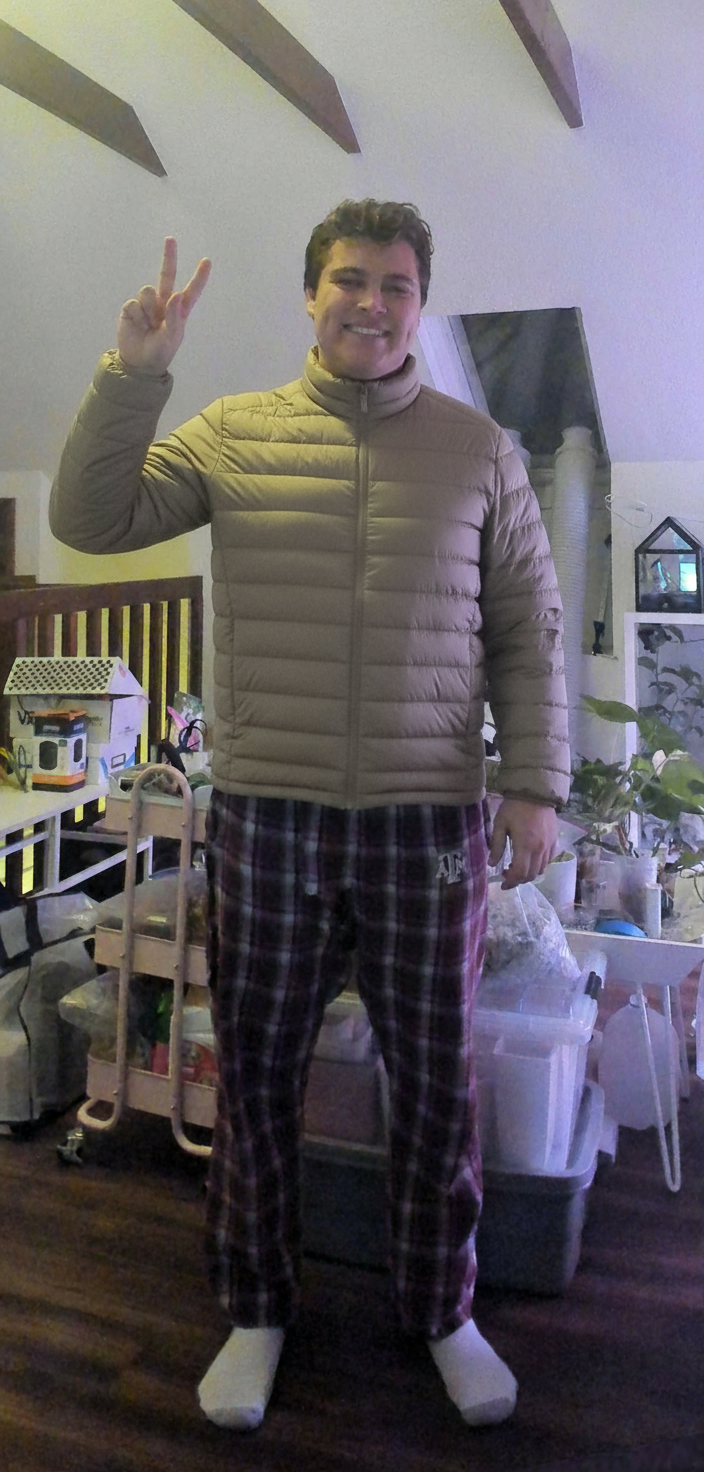
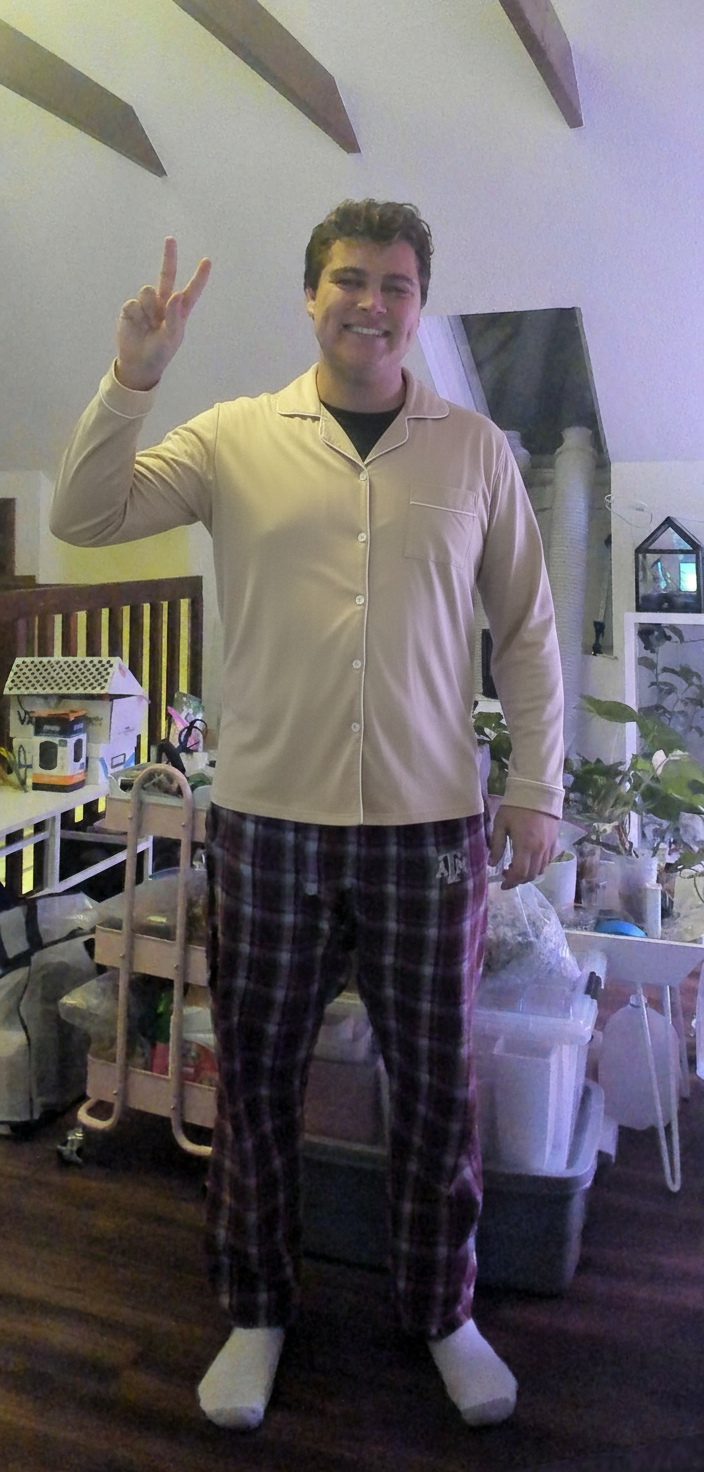
Use naive mask to help complex mask

Changed region(s): [[0.0625, 0.2188, 0.8125, 0.5625]]

diff --git a/danny-mirror/try-on-clothes/isolate-clothing/basic/output/refine_exact_mask_from_seed.py b/danny-mirror/try-on-clothes/isolate-clothing/basic/output/refine_exact_mask_from_seed.py
@@ -1,0 +1,152 @@
+import os
+import cv2
+import numpy as np
+
+
+def load_images_and_seed():
+    script_dir = os.path.dirname(os.path.abspath(__file__))
+    tryon_clothes_root = os.path.abspath(os.path.join(script_dir, os.pardir, os.pardir, os.pardir))  # .../try-on-clothes
+    me_path = os.path.join(tryon_clothes_root, "me.png")
+    tryon_path = os.path.join(tryon_clothes_root, "isolate-clothing", "scaler", "output", "tryon_result_scaled.png")
+    seed_path = os.path.join(script_dir, "clothes_mask.png")
+
+    me = cv2.imread(me_path, cv2.IMREAD_COLOR)
+    if me is None:
+        raise FileNotFoundError(f"Could not read: {me_path}")
+    tr = cv2.imread(tryon_path, cv2.IMREAD_COLOR)
+    if tr is None:
+        raise FileNotFoundError(f"Could not read: {tryon_path}")
+    seed = cv2.imread(seed_path, cv2.IMREAD_GRAYSCALE)
+    if seed is None:
+        raise FileNotFoundError(f"Could not read seed mask: {seed_path}")
+    if me.shape[:2] != tr.shape[:2]:
+        raise ValueError(f"Size mismatch me={me.shape[:2]} tryon={tr.shape[:2]}")
+    if seed.shape[:2] != tr.shape[:2]:
+        # Allow small mismatches by resizing seed to image size if necessary
+        seed = cv2.resize(seed, (tr.shape[1], tr.shape[0]), interpolation=cv2.INTER_NEAREST)
+    return me, tr, seed, script_dir
+
+
+def lab_delta(a_bgr: np.ndarray, b_bgr: np.ndarray) -> np.ndarray:
+    a = cv2.cvtColor(a_bgr, cv2.COLOR_BGR2LAB).astype(np.float32)
+    b = cv2.cvtColor(b_bgr, cv2.COLOR_BGR2LAB).astype(np.float32)
+    d = a - b
+    return np.sqrt(np.sum(d * d, axis=2))
+
+
+def build_grabcut_mask(seed_mask: np.ndarray, delta: np.ndarray,
+                       sure_bg_thr: float = 6.0,
+                       prob_bg_thr: float = 12.0) -> np.ndarray:
+    """
+    Build a trimap for GrabCut from a seed mask and Lab delta between try-on and original.
+      - sure FG: eroded seed
+      - prob FG: seed
+      - prob BG: pixels with low delta (< prob_bg_thr) outside seed
+      - sure BG: pixels with very low delta (< sure_bg_thr) outside seed + a small border band
+    Returns a mask with values in {GC_BGD(0), GC_FGD(1), GC_PR_BGD(2), GC_PR_FGD(3)}
+    """
+    h, w = seed_mask.shape[:2]
+    seed_bin = (seed_mask > 0).astype(np.uint8) * 255
+
+    # sure FG = eroded seed (shrink to high-confidence interior)
+    k_erode = cv2.getStructuringElement(cv2.MORPH_ELLIPSE, (7, 7))
+    sure_fg = cv2.erode(seed_bin, k_erode, iterations=1)
+
+    # probable FG = original seed
+    prob_fg = seed_bin.copy()
+
+    # Background from delta (outside seed)
+    non_seed = (seed_bin == 0)
+    sure_bg = ((delta < sure_bg_thr) & non_seed)
+    prob_bg = ((delta < prob_bg_thr) & non_seed)
+
+    # Add a thin border band to sure BG to prevent edge leakage
+    band = 5
+    border = np.zeros_like(sure_bg, dtype=bool)
+    border[:band, :] = True
+    border[-band:, :] = True
+    border[:, :band] = True
+    border[:, -band:] = True
+    sure_bg = sure_bg | border
+
+    # Compose GrabCut mask
+    GC_BGD, GC_FGD, GC_PR_BGD, GC_PR_FGD = 0, 1, 2, 3
+    gc = np.full((h, w), GC_PR_BGD, dtype=np.uint8)  # default probable background
+    gc[prob_bg] = GC_PR_BGD
+    gc[sure_bg] = GC_BGD
+    gc[prob_fg > 0] = GC_PR_FGD
+    gc[sure_fg > 0] = GC_FGD
+    return gc
+
+
+def refine_with_grabcut(tr: np.ndarray, gc_mask: np.ndarray, iters: int = 5) -> np.ndarray:
+    bgdModel = np.zeros((1, 65), np.float64)
+    fgdModel = np.zeros((1, 65), np.float64)
+    mask = gc_mask.copy()
+    cv2.grabCut(tr, mask, None, bgdModel, fgdModel, iters, cv2.GC_INIT_WITH_MASK)
+    # Foreground if labeled FGD or PR_FGD
+    result = np.where((mask == cv2.GC_FGD) | (mask == cv2.GC_PR_FGD), 255, 0).astype(np.uint8)
+    return result
+
+
+def keep_connected_to_seed(mask: np.ndarray, seed: np.ndarray) -> np.ndarray:
+    # Only keep components that overlap the seed (prevents stray regions)
+    num_labels, labels, stats, _ = cv2.connectedComponentsWithStats(mask, connectivity=8)
+    if num_labels <= 1:
+        return mask
+    seed_bin = (seed > 0).astype(np.uint8)
+    kept = np.zeros_like(mask)
+    for i in range(1, num_labels):
+        comp = (labels == i)
+        if (seed_bin[comp] > 0).any():
+            kept[comp] = 255
+    # Fallback: if nothing kept, keep the largest
+    if cv2.countNonZero(kept) == 0:
+        areas = stats[1:, cv2.CC_STAT_AREA]
+        if areas.size > 0:
+            largest = 1 + int(np.argmax(areas))
+            kept[labels == largest] = 255
+    return kept
+
+
+def main():
+    me, tr, seed, outdir = load_images_and_seed()
+
+    # Compute difference map
+    d = lab_delta(tr, me)
+    d_blur = cv2.GaussianBlur(d, (5, 5), 0)
+
+    # Build grabcut trimap from seed and delta
+    gc_mask = build_grabcut_mask(seed, d_blur, sure_bg_thr=3.0, prob_bg_thr=12.0)
+
+    # Refine
+    refined = refine_with_grabcut(tr, gc_mask, iters=5)
+
+    # Keep only regions connected to initial seed
+    refined = keep_connected_to_seed(refined, seed)
+
+    # Light smoothing
+    k = cv2.getStructuringElement(cv2.MORPH_ELLIPSE, (3, 3))
+    refined = cv2.morphologyEx(refined, cv2.MORPH_CLOSE, k)
+
+    # Save outputs
+    refined_path = os.path.join(outdir, "refined_shirt_mask.png")
+    cv2.imwrite(refined_path, refined)
+
+    # Also save alpha cutout for quick review
+    b, g, r = cv2.split(tr)
+    alpha = refined
+    cutout = cv2.merge((b, g, r, alpha))
+    cutout_path = os.path.join(outdir, "refined_shirt_alpha.png")
+    cv2.imwrite(cutout_path, cutout)
+
+    # Optional: visualize delta for debugging
+    d_vis = np.uint8(np.clip(d_blur * (255.0 / max(d_blur.max(), 1e-6)), 0, 255))
+    cv2.imwrite(os.path.join(outdir, "delta_debug.png"), d_vis)
+
+    print(f"Saved refined mask: {refined_path}")
+    print(f"Saved refined alpha: {cutout_path}")
+
+
+if __name__ == "__main__":
+    main()

diff --git a/danny-mirror/try-on-clothes/pixel-cut.py b/danny-mirror/try-on-clothes/pixel-cut.py
@@ -6,7 +6,7 @@ PIXELCUT_API_KEY = os.environ.get("PIXELCUT_API_KEY", "sk_d9c026c715664ae4955fe0
 
 # 2. Local image paths
 PERSON_IMAGE_PATH = "me.png"         # your photo
-GARMENT_IMAGE_PATH = "shirt.png"     # photo of the clothes
+GARMENT_IMAGE_PATH = "pjs_2.jpg"     # photo of the clothes
 
 API_URL = "https://api.developer.pixelcut.ai/v1/try-on"
 
